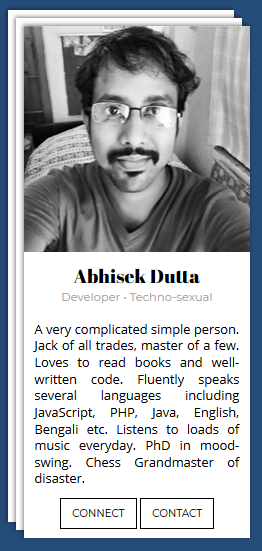
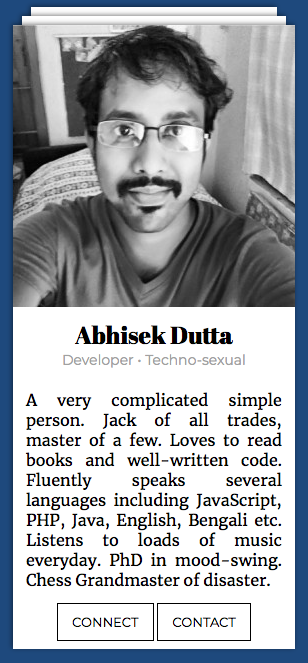
Changed screenshot.

diff --git a/style.css b/style.css
@@ -302,7 +302,7 @@ svg.icon {
 }
 
 textarea, input {
-    font-family: 'Open Sans', sans-serif;
+    font-family: 'Merriweather', sans-serif;
     font-size: 0.86rem;
 }
 

diff --git a/README.md b/README.md
@@ -14,6 +14,7 @@ It's not ready for anything. I just wanted to learn Figma. However, I learned se
 
 * [VSCode](https://code.visualstudio.com/)
 * [FlatIcon](https://www.flaticon.com/) - For all the svg icons on the page
+* [Google Fonts](https://fonts.google.com/)
 
 ## LICENSE
 [CSS BY 2.5 IN](https://creativecommons.org/licenses/by/2.5/in/)
